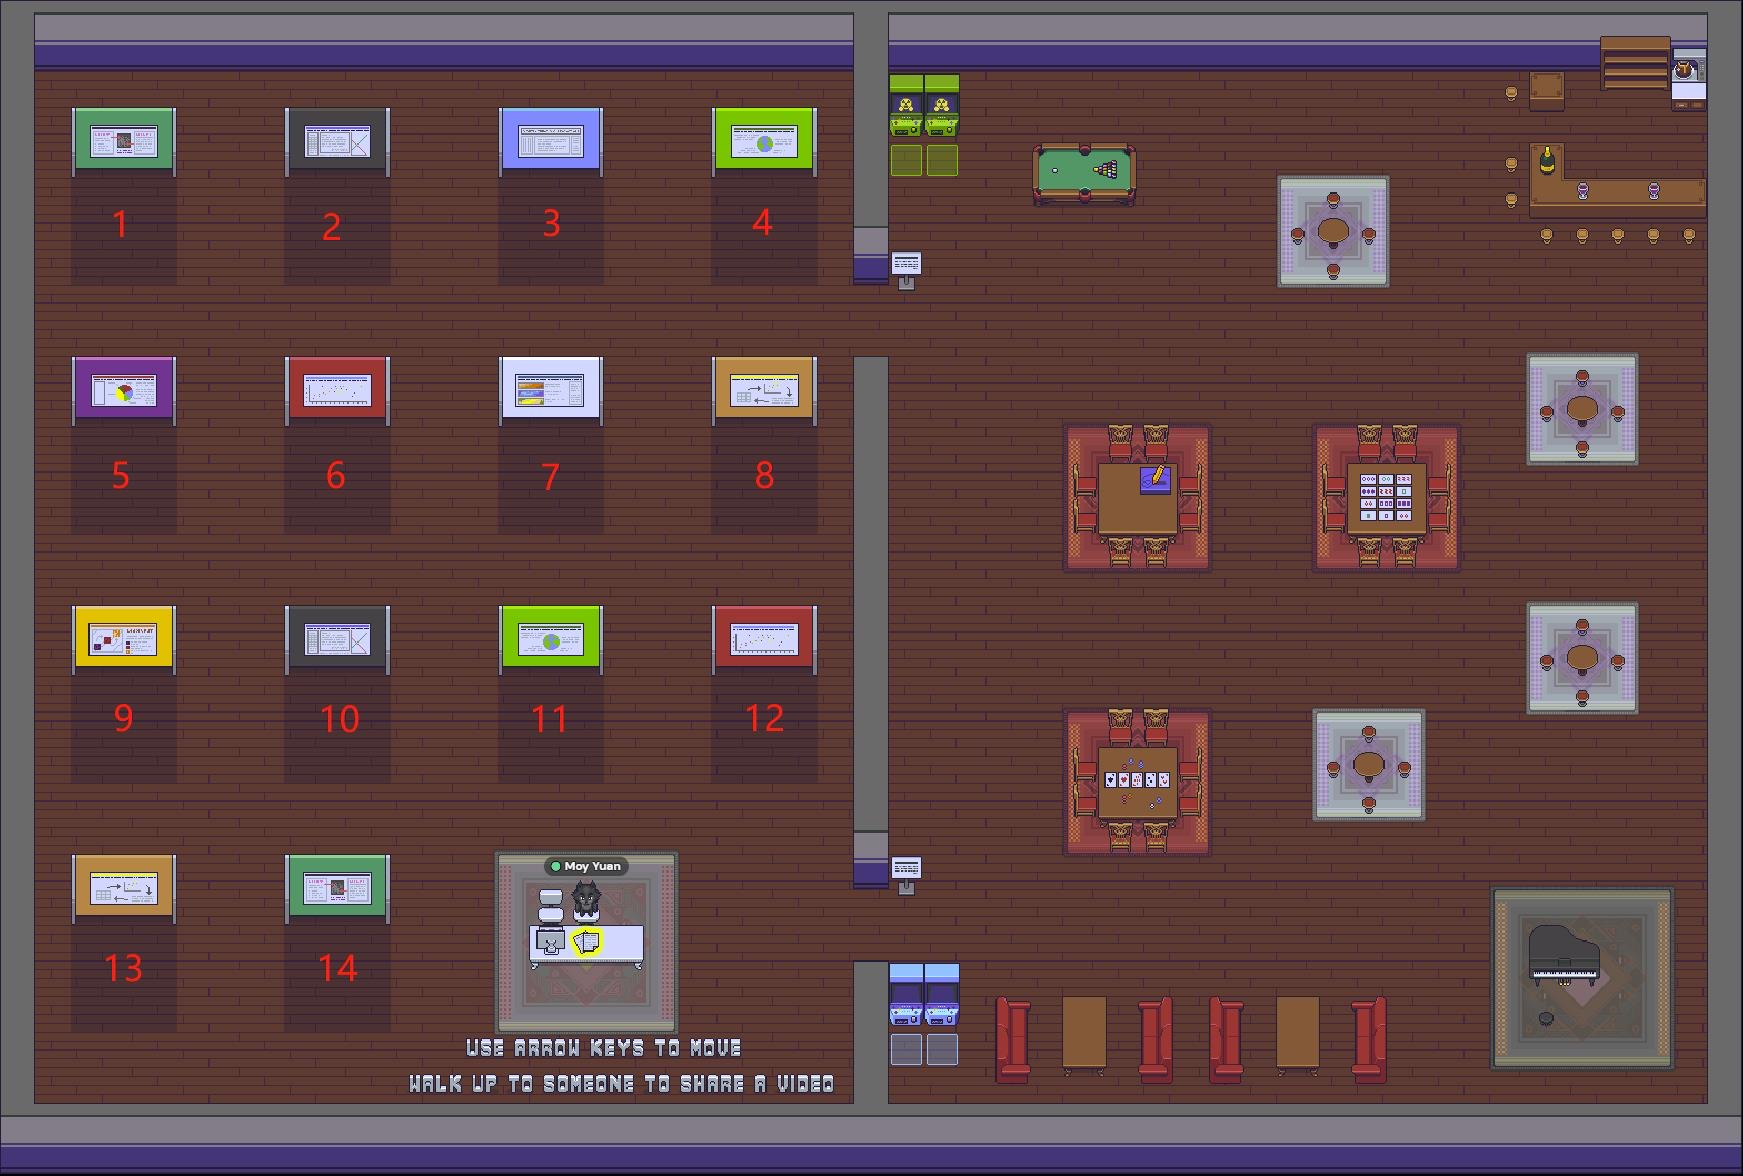
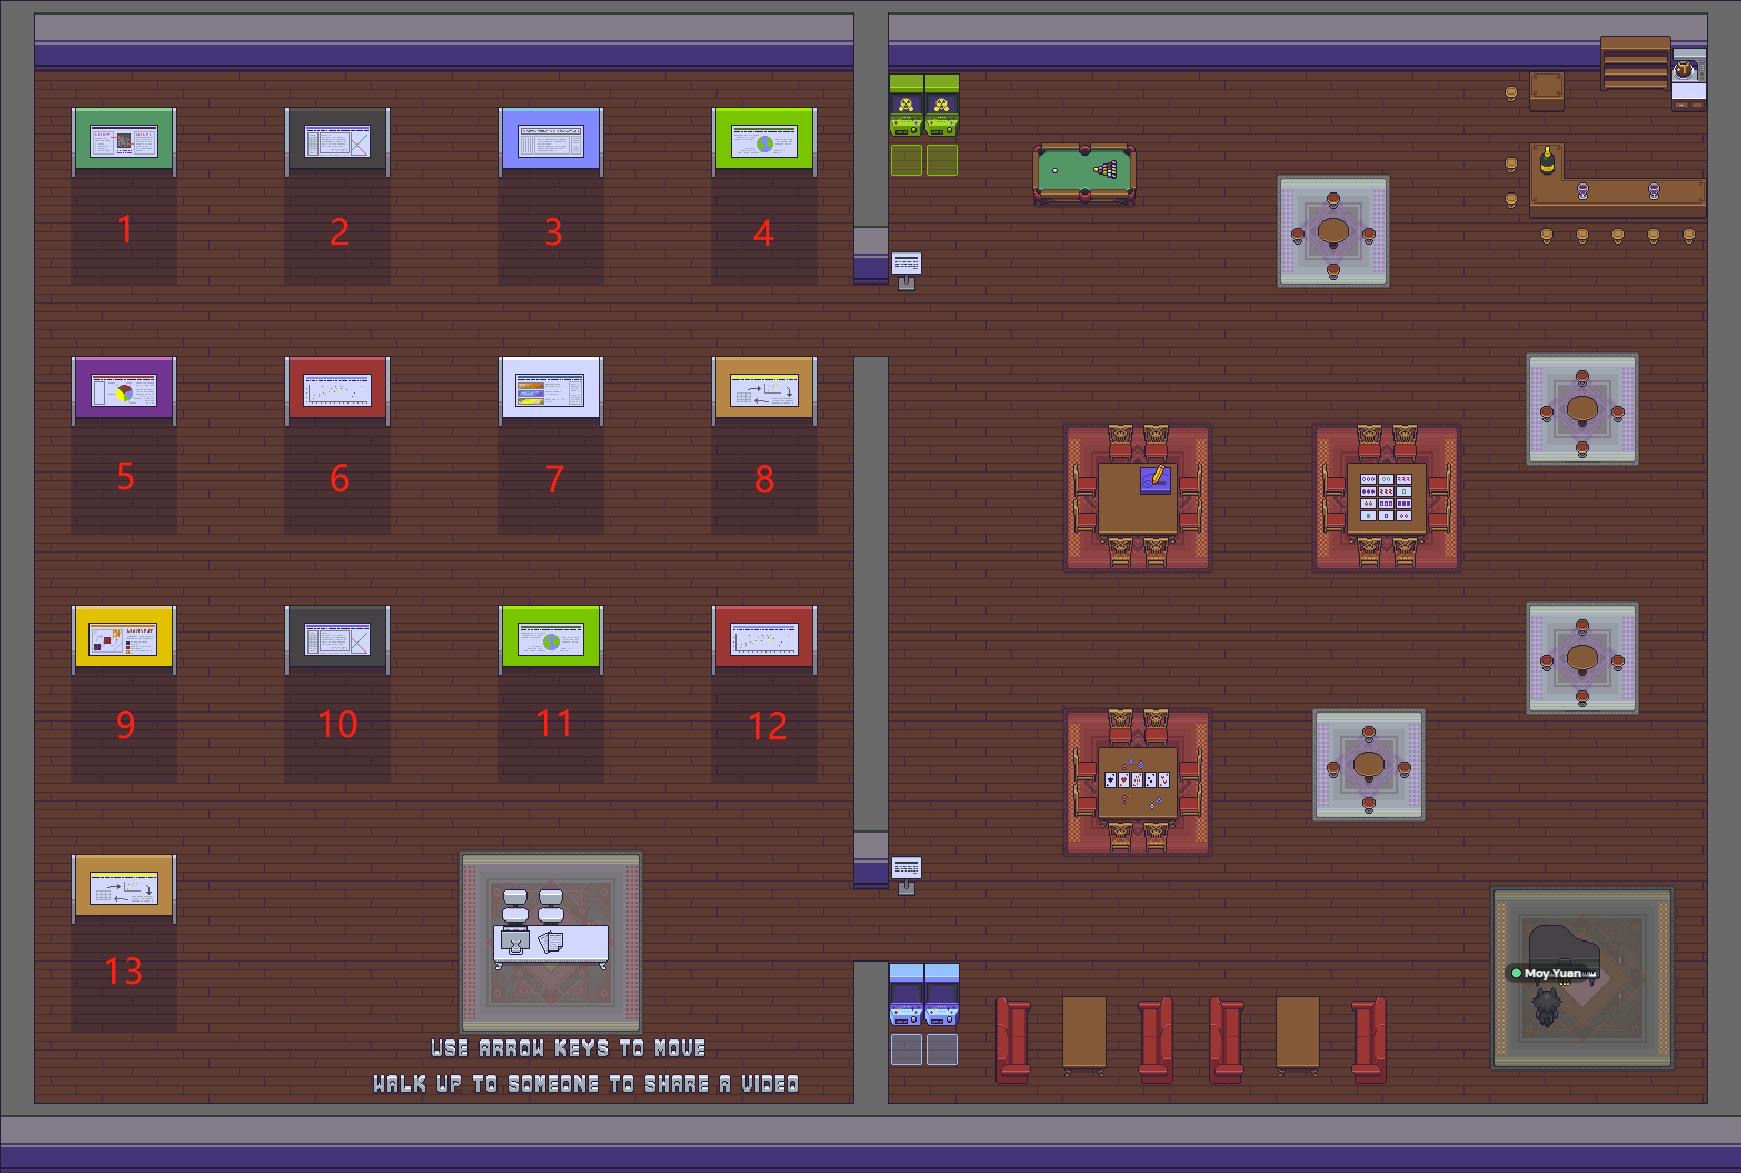
updated gather town map

diff --git a/pages/gathertown.md b/pages/gathertown.md
@@ -17,7 +17,7 @@ figcaption {
 <figcaption>The map of gather town. The posters are: <br /> 
 1. Knowledge Base Question Answering: A Semantic Parsing Perspective <br />
 2. Bending the Future: Autoregressive Modeling of Temporal Knowledge Graphs in Curvature-Variable Hyperbolic Spaces <br />
-3. How Optimal is Greedy Decoding for Extractive Question Answering? <br />
+3. Generative Multi-hop Retrieval <br />
 4. KAMEL: Knowledge Analysis with Multitoken Entities in Language Models <br />
 5. Building Knowledge Graphs of Experientially Related Concepts <br />
 6. Open-World Taxonomy and Knowledge Graph Co-Learning <br />
@@ -28,5 +28,5 @@ figcaption {
 11. DeepKE: A Deep Learning Based Knowledge Extraction Toolkit for Knowledge Base Population <br />
 12. Commonsense Knowledge Salience Evaluation with a Benchmark Dataset in E-commerce <br />
 13. Towards Realistic Low-resource Relation Extraction: A Benchmark with Empirical Baseline Study <br />
-14. Generative Multi-hop Retrieval <br /> </figcaption>
+</figcaption>
 </figure>
